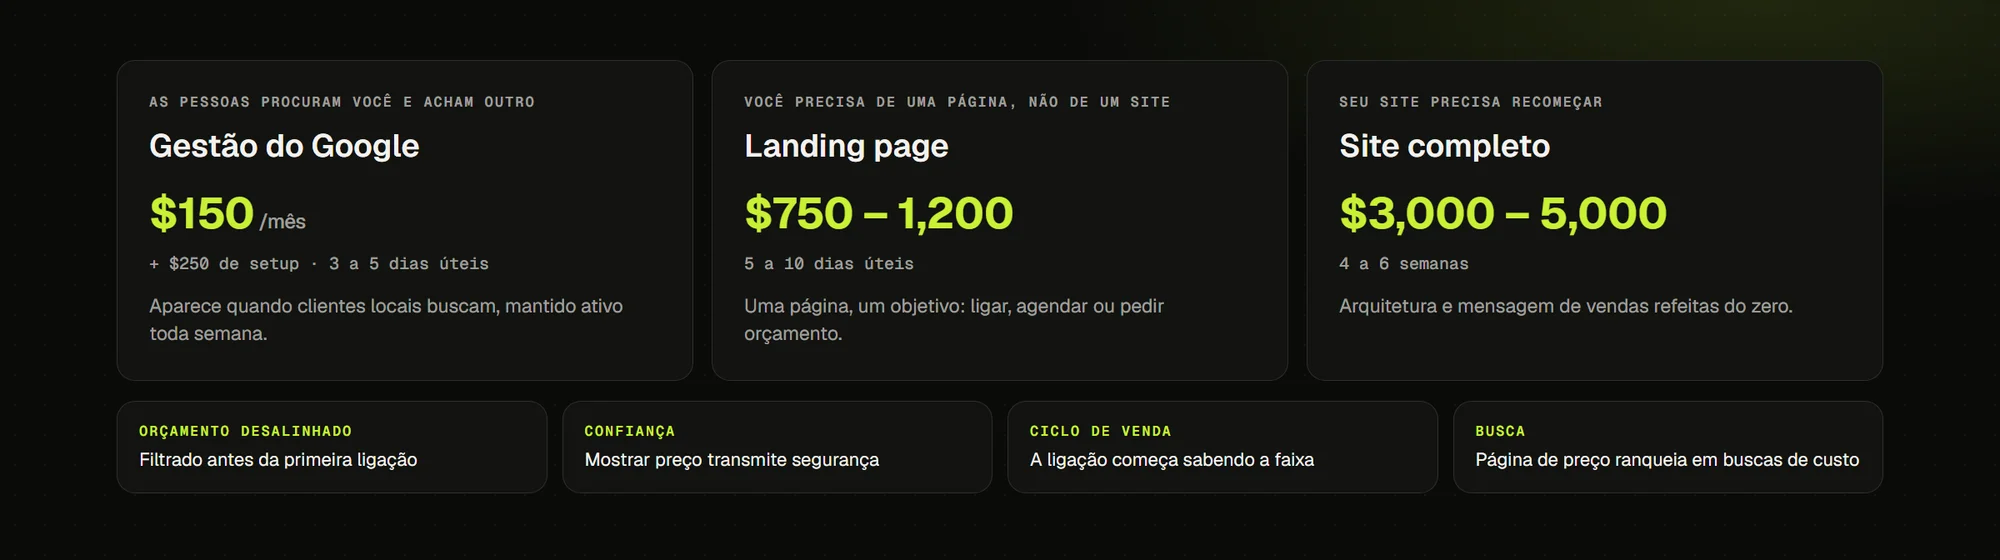
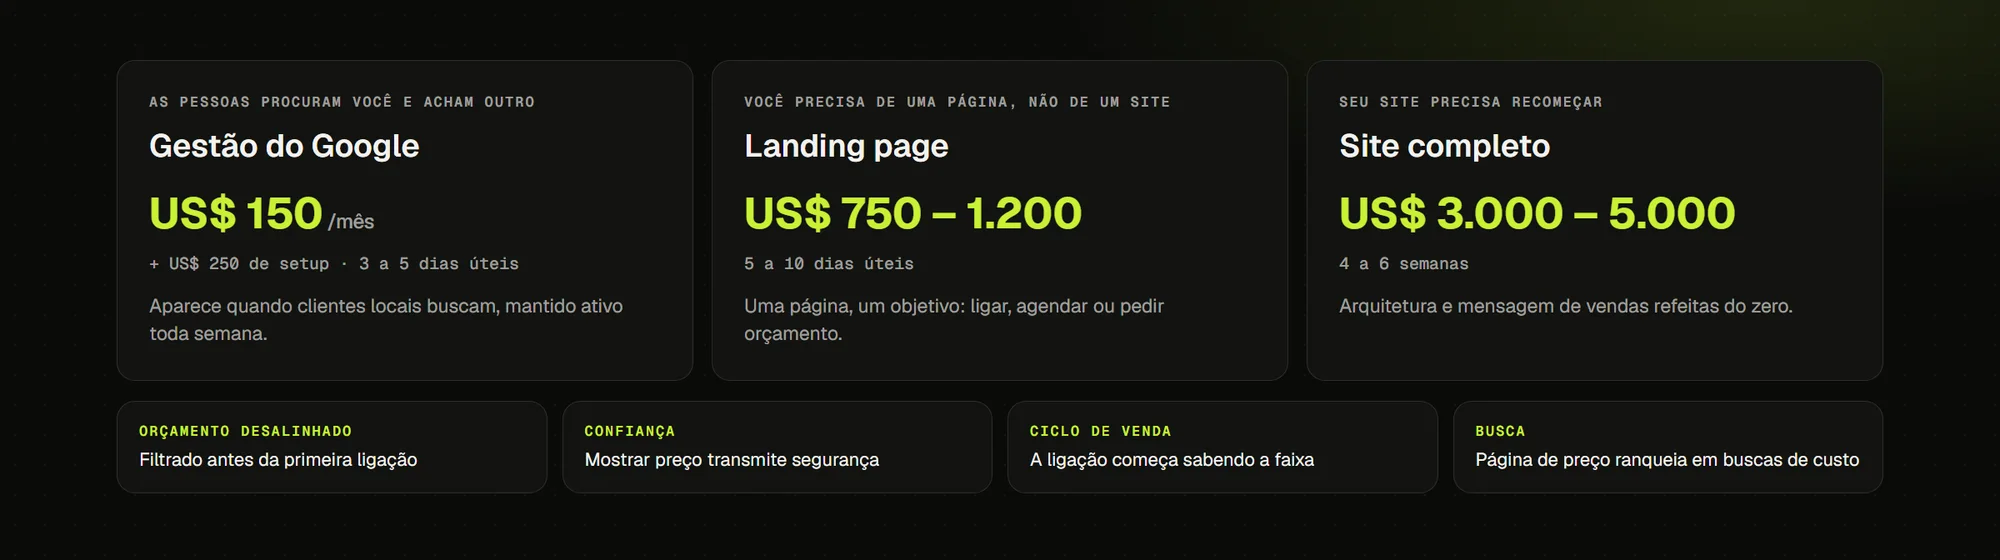
Typos and PT localisation in case artifacts
- Instivo rule engine (PT): operators and 'dock' translated
- Selo H performance (PT): decimal comma
- Vellumwire pricing (PT): US$ with Brazilian number format
- Fiter keywords: duplicated 'top of funnel' label
- Meaple PT: cofundadores; card copy: color

diff --git a/pt-br/work/meaple/index.html b/pt-br/work/meaple/index.html
@@ -152,7 +152,7 @@
 
                                 
     <dl class="case-meta" data-dsn-animate="up">
-      <div><dt>Papel</dt><dd>Design Lead</dd></div><div><dt>Time</dt><dd>Design solo, 2 devs, 2 co-fundadores</dd></div><div><dt>Cliente</dt><dd>Ensight · 2019–2021</dd></div><div><dt>Plataforma</dt><dd>iOS 10+ · Android 4.4+, depois web</dd></div>
+      <div><dt>Papel</dt><dd>Design Lead</dd></div><div><dt>Time</dt><dd>Design solo, 2 devs, 2 cofundadores</dd></div><div><dt>Cliente</dt><dd>Ensight · 2019–2021</dd></div><div><dt>Plataforma</dt><dd>iOS 10+ · Android 4.4+, depois web</dd></div>
     </dl>
                             </div>
                         </div>
